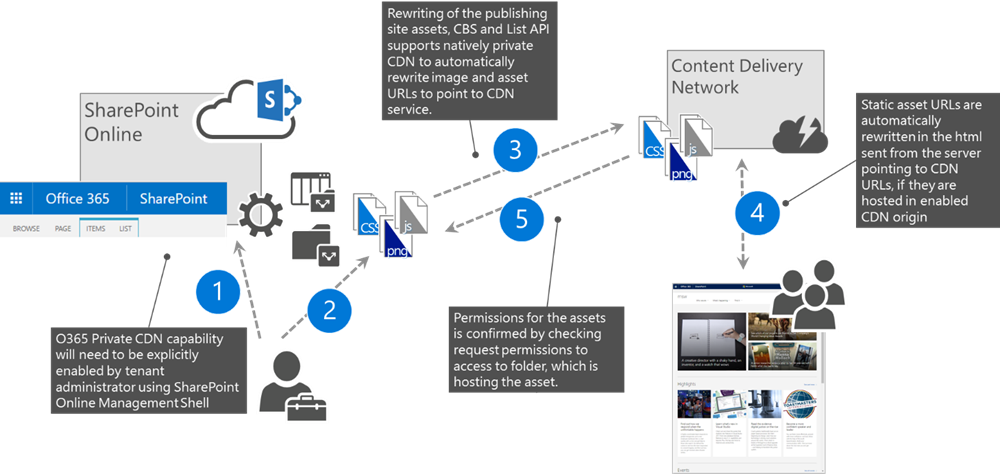
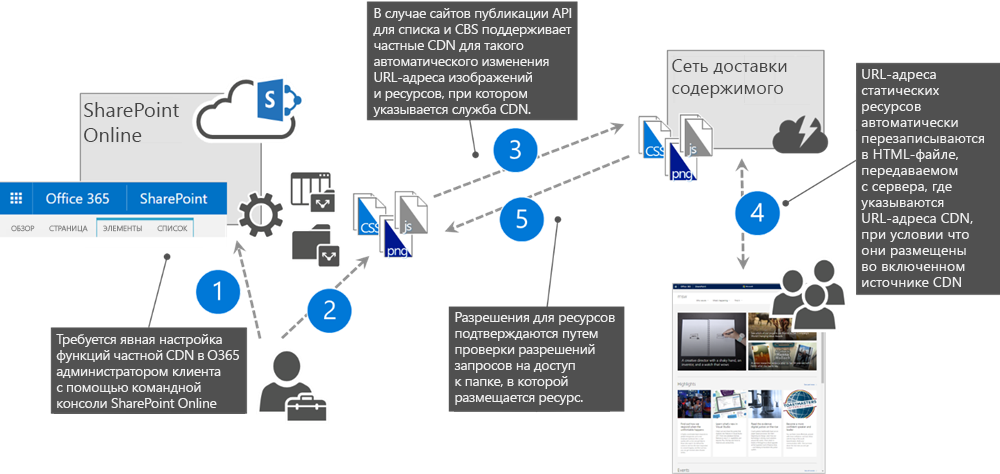
Commit translated content

diff --git a/docs/declarative-customization/site-design-overview.md b/docs/declarative-customization/site-design-overview.md
@@ -1,19 +1,19 @@
 ---
 title: "Общие сведения о макетах и скриптах сайтов SharePoint"
 description: "Узнайте, как автоматизировать подготовку новых сайтов SharePoint с пользовательскими конфигурациями, используя скрипты и макеты сайтов SharePoint."
-ms.date: 12/14/2017
-ms.openlocfilehash: 347be667a9b4bd7cfecdf8c8b962da7a1b98eefa
-ms.sourcegitcommit: db303a21b5f83c8c2f9c2028a271c9aae0ac0515
+ms.date: 01/08/2018
+ms.openlocfilehash: cbc11ec54bb48fab15269ac66e9a311ad4dd5bc1
+ms.sourcegitcommit: 6b547679670b719f2222f9709732382739956f90
 ms.translationtype: HT
 ms.contentlocale: ru-RU
-ms.lasthandoff: 01/07/2018
+ms.lasthandoff: 01/18/2018
 ---
 # <a name="sharepoint-site-design-and-site-script-overview"></a>Общие сведения о макетах и скриптах сайтов SharePoint
 
 > [!NOTE]
-> Макеты и скрипты сайтов в настоящий момент пересматриваются и могут быть изменены. Сейчас они не поддерживаются для использования в рабочих средах.
+> Макеты и скрипты сайтов находятся на стадии тестирования и могут меняться. В настоящее время в рабочих средах их можно использовать только в выпуске Targeted.
 
-Узнайте, как автоматизировать подготовку новых сайтов SharePoint с собственными конфигурациями, используя макеты и скрипты сайтов. Когда пользователи в организации создают сайты SharePoint, часто требуется обеспечить некоторый уровень согласованности. Например, к каждому новому сайту может потребоваться применять надлежащий фирменный стиль и темы. Вы также можете использовать подробные скрипты подготовки сайтов (например, модуль подготовки PnP), которые должны применяться при создании каждого сайта. В этой статье описывается использование макетов и скриптов сайтов для создания пользовательских конфигураций, применяемых при создании сайтов.
+Автоматизируйте подготовку новых сайтов SharePoint с собственными конфигурациями, используя макеты и скрипты. Когда пользователи в организации создают сайты SharePoint, часто требуется обеспечить некоторый уровень согласованности. Например, к каждому новому сайту может потребоваться применять надлежащий фирменный стиль и темы. Вы также можете использовать подробные скрипты подготовки сайтов (например, модуль подготовки PnP), которые должны применяться при создании каждого сайта. В этой статье описывается использование макетов и скриптов сайтов для создания пользовательских конфигураций, применяемых при создании сайтов.
 
 ## <a name="how-site-designs-work"></a>Как работают макеты сайтов
 
@@ -38,9 +38,9 @@ ms.lasthandoff: 01/07/2018
 
 ![Стандартные заголовок, описание и изображение макета в шаблоне сайта для общения](images/site-designs-listed-on-communication-site-template.png)
 
-Шаблон сайта группы содержит только один стандартный макет с именем **Сайт группы**. Дополнительные сведения о том, как можно изменить стандартные макеты сайта, см. в статье [Настройка стандартного макета сайта](customize-default-site-design.md).
+Шаблон сайта группы содержит только один стандартный макет с именем **Сайт группы**. Дополнительные сведения о том, как можно изменить стандартные макеты сайта, см. в [этой статье](customize-default-site-design.md).
 
-После выбора макета сайта SharePoint создает новый сайт и выполняет скрипты для его макета. В скриптах сайта описываются такие задачи, как создание списков или применение темы. После выполнения действий из скриптов SharePoint выводит подробные сведения о результатах этих действий в области выполнения.
+После выбора макета SharePoint создает новый сайт и выполняет скрипты для его макета. Скрипты сайта описывают задачи, такие как создание списков или применение темы. После выполнения действий из скриптов SharePoint выводит подробные сведения о результатах этих действий в области выполнения.
 
 ![Область выполнения со списком завершенных действий из макета сайта](images/progress-pane.png)
 
@@ -202,9 +202,9 @@ RestRequest("/_api/Microsoft.Sharepoint.Utilities.WebTemplateExtensions.SiteScri
 Параметр **WebTemplate** со значением 64 указывает, что макет сайта регистрируется с шаблоном сайта группы. Значение 68 указывает на шаблон сайта для общения. Параметры **Title** и **Description** отображаются, когда пользователь просматривает макеты сайтов во время создания сайта группы.
 
 > [!NOTE]
-> Макет сайта может выполнять множество скриптов. Их идентификаторы передаются в массиве, а скрипты выполняются в указанном порядке.
+> Макет сайта может выполнять множество скриптов. Их идентификаторы передаются в массиве. Скрипты выполняются в указанном порядке.
 
-Пошаговые инструкции по созданию макета сайта см. в статье [Начало создания макетов сайтов](get-started-create-site-design.md).
+Пошаговые инструкции по созданию макета сайта см. в [этой статье](get-started-create-site-design.md).
 
 ## <a name="pnp-provisioning-and-customization-using-microsoft-flow"></a>Подготовка PnP и настройка с помощью Microsoft Flow
 
@@ -221,13 +221,13 @@ RestRequest("/_api/Microsoft.Sharepoint.Utilities.WebTemplateExtensions.SiteScri
 1. Сообщение вызывает настроенную вами функцию Azure.
 1. Функция Azure выполняет пользовательский скрипт (например, модуль подготовки PnP), чтобы подготовить пользовательские конфигурации.
 
-Пошаговое руководстве по настройке потока Microsoft Flow с помощью модуля подготовки PnP см. в статье [Создание полноценного макета сайта с помощью модуля подготовки PnP](site-design-pnp-provisioning.md).
+Пошаговое руководстве по настройке потока Microsoft Flow с помощью модуля подготовки PnP см. в [этой статье](site-design-pnp-provisioning.md).
 
 ## <a name="scoping"></a>Определение области
 
-Вы можете настраивать макеты сайтов, чтобы они отображались только для определенных групп пользователей в организации. Это гарантирует, что пользователям видны только те макеты сайтов, которые для них предназначены. Например, отделу бухгалтерии будут доступны только соответствующие макеты. С другой стороны, макеты сайтов для бухгалтерии не понадобятся другим пользователям.
+Вы можете настраивать макеты сайтов, чтобы они отображались только для определенных групп пользователей в организации. Другие пользователи не будут видеть эти макеты. Например, можно сделать так, чтобы макеты для бухгалтерии видели только бухгалтеры и больше никто.
 
-После создания макета сайта он по умолчанию виден всем пользователям. Области применяются с помощью командлета **Grant-SPOSiteDesignRights** или REST API **GrantSiteDesignRights**.  В качестве области можно указывать пользователей или группы безопасности, поддерживающие почту. В приведенном ниже примере показано, как добавить к макету сайта права просмотра для пользователя Nestor (на вымышленном сайте Contoso).
+После создания макета сайта он по умолчанию виден всем пользователям. Области применяются с помощью командлета **Grant-SPOSiteDesignRights** или REST API **GrantSiteDesignRights**.  В качестве области можно указывать пользователей или группы безопасности, поддерживающие почту. В приведенном ниже примере показано, как предоставить пользователю Nestor (на вымышленном сайте Contoso) права на просмотр макета.
 
 > [!div class="tabbedCodeSnippets"]
 ```powershell
@@ -242,7 +242,7 @@ Grant-SPOSiteDesignRights `
 RestRequest("/_api/Microsoft.Sharepoint.Utilities.WebTemplateExtensions.SiteScriptUtility.GrantSiteDesignRights", {id:"44252d09-62c4-4913-9eb0-a2a8b8d7f863", principalNames:["nestorw@contoso.onmicrosoft.com”], grantedRights:1});
 ```
 -->
-Дополнительные сведения о работе с областями см. в статье [Определение области доступа к макетами сайтов](site-design-scoping.md).
+Дополнительные сведения о работе с областями см. в [этой статье](site-design-scoping.md).
 
 ## <a name="see-also"></a>См. также
 

diff --git a/docs/declarative-customization/site-design-rest-api.md b/docs/declarative-customization/site-design-rest-api.md
@@ -2,25 +2,25 @@
 title: "REST API для работы с макетами сайтов SharePoint"
 description: "Узнайте, как работать с макетами сайтов SharePoint при помощи интерфейса REST для SharePoint, выполняя базовые операции создания, чтения, обновления и удаления (CRUD)."
 ms.date: 12/14/2017
-ms.openlocfilehash: 618f8b0bb7eed7a3bf60bdd86363e095fb0a8221
-ms.sourcegitcommit: 6f2b3b5bd81c2de4f761e10ed5e2f0b9c3c485bf
+ms.openlocfilehash: 978a5c2b58e418ae9f7d99783a95352cdd3977a5
+ms.sourcegitcommit: 9f492519d4eeb3f62a1fddc71cdca79263651a56
 ms.translationtype: HT
 ms.contentlocale: ru-RU
-ms.lasthandoff: 12/21/2017
+ms.lasthandoff: 01/19/2018
 ---
 # <a name="site-design-and-site-script-rest-api"></a>REST API для работы с макетами и скриптами сайтов
 
 > [!NOTE]
-> Макеты и скрипты сайтов в настоящий момент пересматриваются и могут быть изменены. Сейчас они не поддерживаются для использования в рабочих средах.
+> Макеты и скрипты сайтов находятся на стадии тестирования и могут меняться. В настоящее время в рабочих средах их можно использовать только в выпуске Targeted.
 
 При помощи интерфейса REST для SharePoint можно выполнять операции CRUD (создание, чтение, обновление и удаление) с макетами и скриптами сайтов.
 
-Служба REST в SharePoint Online (а также локальной среде SharePoint 2016 или более поздней версии) поддерживает объединение нескольких запросов в один вызов службы с помощью параметра запроса OData $batch. Подробные сведения и ссылки на примеры кода см. в статье [Отправка пакетных запросов с помощью интерфейсов REST API]((https://dev.office.com/sharepoint/docs/apis/rest/make-batch-requests-with-the-rest-apis.md)).
+Служба REST в SharePoint Online (а также локальной среде SharePoint 2016 или более поздней версии) поддерживает объединение нескольких запросов в один вызов службы с помощью параметра запроса OData $batch. Подробные сведения и ссылки на примеры кода см. в статье [Отправка пакетных запросов с помощью интерфейсов REST API](https://dev.office.com/sharepoint/docs/apis/rest/make-batch-requests-with-the-rest-apis.md).
 
 ## <a name="prerequisites"></a>Необходимые условия
 Прежде чем приступить к работе, убедитесь, что вы знакомы с понятиями, описанными в следующих статьях:
-- [Знакомство со службой REST в SharePoint]((https://dev.office.com/sharepoint/docs/apis/rest/get-to-know-the-sharepoint-rest-service.md)); 
-- [Выполнение базовых операций с использованием конечных точек REST SharePoint]((https://dev.office.com/sharepoint/docs/apis/rest/complete-basic-operations-using-sharepoint-rest-endpoints.md))
+- [Знакомство со службой REST в SharePoint](https://dev.office.com/sharepoint/docs/apis/rest/get-to-know-the-sharepoint-rest-service.md); 
+- [Выполнение базовых операций с использованием конечных точек REST SharePoint](https://dev.office.com/sharepoint/docs/apis/rest/complete-basic-operations-using-sharepoint-rest-endpoints.md)
 
 ## <a name="rest-commands"></a>Команды REST
 

diff --git a/docs/declarative-customization/site-design-json-schema.md b/docs/declarative-customization/site-design-json-schema.md
@@ -2,18 +2,18 @@
 title: "Схема JSON для макетов сайтов"
 description: "Справочник по схеме JSON для создания макетов сайтов SharePoint."
 ms.date: 12/14/2017
-ms.openlocfilehash: 8fcc88c854b948c785db6181fa66e307128b343d
-ms.sourcegitcommit: 7b6ce94b477d9b587beaa059eb9aa7cd6235efde
+ms.openlocfilehash: e5495608c10bac18ee98f858736d117a02c5f2a5
+ms.sourcegitcommit: 6b547679670b719f2222f9709732382739956f90
 ms.translationtype: HT
 ms.contentlocale: ru-RU
-ms.lasthandoff: 01/05/2018
+ms.lasthandoff: 01/18/2018
 ---
 # <a name="site-design-json-schema"></a>Схема JSON для макетов сайтов
 
 > [!NOTE]
-> Макеты и скрипты сайтов в настоящий момент пересматриваются и могут быть изменены. Сейчас они не поддерживаются для использования в рабочих средах.
+> Макеты и скрипты сайтов находятся на стадии тестирования и могут меняться. В настоящее время в рабочих средах их можно использовать только в выпуске Targeted.
 
-Макет сайта представляет собой список действий. Сложные действия, например создание списка, также содержат вложенные действия. Каждое действие указывается с помощью значения verb (команды). Действия-команды выполняются в том порядке, в котором они указаны в скрипте JSON.
+Макет сайта представляет собой список действий. Сложные действия, например создание списка, также содержат вложенные действия. Каждое действие указывается с помощью значения verb (команды). Действия-команды выполняются в том порядке, в котором они указаны в скрипте JSON. Используйте только указанные здесь действия-команды, иначе при попытке загрузить скрипт сайта возникнет ошибка "не удается обработать действие". Со временем список действий будет расширяться. 
 
 Общая структура JSON выглядит так:
 
@@ -37,7 +37,7 @@ ms.lasthandoff: 01/05/2018
 Значения JSON:
 
 - **listName** — имя списка, которое видят пользователи.
-- **templateType** — тип шаблона, применяемый к списку. Как правило, используется значение 100. Значения типов шаблонов указываются в [перечислении SPListTemplateType]((https://msdn.microsoft.com/ru-RU/library/microsoft.sharepoint.splisttemplatetype.aspx)).
+- **templateType** — тип шаблона, применяемый к списку. Как правило, используется значение 100. Значения типов шаблонов указываются в [перечислении SPListTemplateType](https://msdn.microsoft.com/ru-RU/library/microsoft.sharepoint.splisttemplatetype.aspx).
 - **subactions** — массив действий, выполняемых в указанном порядке для создания списка.
 
 Пример:

diff --git a/docs/declarative-customization/site-design-pnp-provisioning.md b/docs/declarative-customization/site-design-pnp-provisioning.md
@@ -1,21 +1,21 @@
 ---
 title: "Создание полноценного макета сайта SharePoint с помощью модуля подготовки PnP"
 description: "Создание полноценного макета сайта SharePoint с помощью модуля подготовки PnP"
-ms.date: 12/14/2017
-ms.openlocfilehash: 028a028822c234dcbbbad290c642ec03dd4b6392
-ms.sourcegitcommit: d9372f6009de1c1e48e272fd3629a99aed7fef9f
+ms.date: 01/08/2018
+ms.openlocfilehash: 102eec9fa09afa28bbdc5b40f73a9e254dd52bce
+ms.sourcegitcommit: 6b547679670b719f2222f9709732382739956f90
 ms.translationtype: HT
 ms.contentlocale: ru-RU
-ms.lasthandoff: 01/09/2018
+ms.lasthandoff: 01/18/2018
 ---
 # <a name="calling-the-pnp-provisioning-engine-from-a-site-script"></a>Вызов модуля подготовки PnP из скрипта на сайте
 
 > [!NOTE]
 > Макеты и скрипты сайтов находятся на стадии тестирования и могут меняться. В настоящее время их нельзя использовать в рабочих средах.
 
-Макеты сайтов — удобный способ стандартизации внешнего вида семейств веб-сайтов. Однако они не поддерживают некоторые задачи, например, не позволяют добавить нижний колонтитул на каждую страницу. С помощью модуля подготовки PnP вы можете создать шаблон, позволяющий подготовить настройщик для сайта. Этот настройщик затем может обновить макет страницы, например, чтобы зарегистрировать нижний колонтитул на каждой странице. 
+Макеты сайтов — удобный способ стандартизации внешнего вида семейств веб-сайтов. Однако они не поддерживают некоторые задачи, например, не позволяют добавить нижний колонтитул на каждую страницу. Вы можете подготовить настройщик заполнителей сайта на основе шаблона, созданного с помощью модуля подготовки PnP. Этот настройщик затем может обновить макет страницы, например, чтобы зарегистрировать нижний колонтитул на каждой странице. 
 
-В этой статье описано, как создать макет сайта, который применяет шаблон подготовки PnP к сайту. Шаблон добавит настройщик для отображения нижнего колонтитула.
+В этой статье описано, как создать макет сайта, который применяет шаблон подготовки PnP к сайту. Шаблон добавит настройщик заполнителей для отображения нижнего колонтитула.
 
 В этой статье используются следующие компоненты:
 

diff --git a/docs/declarative-customization/customize-default-site-design.md b/docs/declarative-customization/customize-default-site-design.md
@@ -2,18 +2,18 @@
 title: "Настройка стандартных дизайнов сайтов в SharePoint"
 description: "Настройка стандартных дизайнов сайтов в шаблоне сайта группы или сайта для общения в SharePoint"
 ms.date: 12/18/2017
-ms.openlocfilehash: 8b5506877f5e7938c16ce2d2dacb928ae57e24f9
-ms.sourcegitcommit: 31f793b42ec75679f01e1a024d0375a2bc7b5ec7
+ms.openlocfilehash: 34107e7028400cec62b0f6454f3474b92ca288be
+ms.sourcegitcommit: 9f492519d4eeb3f62a1fddc71cdca79263651a56
 ms.translationtype: HT
 ms.contentlocale: ru-RU
-ms.lasthandoff: 12/19/2017
+ms.lasthandoff: 01/19/2018
 ---
-# <a name="customize-a-default-site-design"></a>Настройка стандартного дизайна сайта
+# <a name="customize-a-default-site-design"></a>Настройка дизайна сайта по умолчанию
 
 > [!NOTE]
-> Дизайны и скрипты сайтов в настоящий момент пересматриваются и могут быть изменены. Сейчас они не поддерживаются для использования в рабочих средах.
+> Макеты и скрипты сайтов находятся на стадии тестирования и могут меняться. В настоящее время в рабочих средах их можно использовать только в выпуске Targeted.
 
-В SharePoint есть несколько дизайнов сайтов, доступных в шаблонах сайтов SharePoint Online. Это стандартные дизайны сайтов. Вы можете изменить их с помощью PowerShell или REST API для контролирования всего процесса подготовки сайта. Например, вы можете сделать так, чтобы тема организации применялась к каждому создаваемому сайту. Вы также можете обеспечить обязательное ведение журнала независимо от того, какой дизайн сайта выбран.
+SharePoint содержит несколько макетов, уже доступных в шаблонах сайтов SharePoint Online. Это стандартные дизайны сайтов. Вы можете изменить их с помощью PowerShell или REST API для контролирования всего процесса подготовки сайта. Например, вы можете сделать так, чтобы тема организации применялась к каждому создаваемому сайту. Вы также можете обеспечить обязательное ведение журнала независимо от того, какой дизайн сайта выбран.
 
 ## <a name="apply-a-site-design-to-the-default-site-designs"></a>Применение к стандартным дизайнам сайтов другого дизайна сайта
 

diff --git a/docs/declarative-customization/get-started-create-site-design.md b/docs/declarative-customization/get-started-create-site-design.md
@@ -1,17 +1,17 @@
 ---
 title: "Приступая к созданию макетов и скриптов сайтов SharePoint"
 description: "Узнайте, как приступить к созданию макетов и скриптов сайтов SharePoint, с помощью которых пользователи смогут создавать собственные сайты."
-ms.date: 12/14/2017
-ms.openlocfilehash: 4b4e0c6c1a374599448aa5eb87ace311398c3593
-ms.sourcegitcommit: d9372f6009de1c1e48e272fd3629a99aed7fef9f
+ms.date: 01/08/2018
+ms.openlocfilehash: 5781898dc7c2b7a8905003f8584a62470ef1fb9c
+ms.sourcegitcommit: 9f492519d4eeb3f62a1fddc71cdca79263651a56
 ms.translationtype: HT
 ms.contentlocale: ru-RU
-ms.lasthandoff: 01/09/2018
+ms.lasthandoff: 01/19/2018
 ---
 # <a name="get-started-creating-site-designs-and-site-scripts"></a>Приступая к созданию макетов и скриптов сайтов
 
 > [!NOTE]
-> Макеты и скрипты сайтов в настоящий момент пересматриваются и могут быть изменены. Сейчас они не поддерживаются для использования в рабочих средах.
+> Макеты и скрипты сайтов находятся на стадии тестирования и могут меняться. В настоящее время в рабочих средах их можно использовать только в выпуске Targeted.
 
 Создавая макеты сайтов, вы можете предоставлять пользователям пригодные для повторного использования списки, темы, макеты, страницы или дополнительные действия, чтобы они могли быстро создавать сайты SharePoint с нужными им функциями. В этой статье описывается создание примера макета сайта, добавляющего список SharePoint для отслеживания заказов от клиентов. Мы создадим при помощи этого макета новый сайт SharePoint с настраиваемым списком.
 

diff --git a/docs/declarative-customization/site-design-scoping.md b/docs/declarative-customization/site-design-scoping.md
@@ -1,17 +1,17 @@
 ---
 title: "Определение областей доступа к макетам сайтов SharePoint"
 description: "Узнайте, как задавать области для макетов сайтов SharePoint, чтобы управлять тем, кто может просматривать и использовать их."
-ms.date: 12/14/2017
-ms.openlocfilehash: c0896cab28a4c9cba3f74fbad8120061311004a2
-ms.sourcegitcommit: d9372f6009de1c1e48e272fd3629a99aed7fef9f
+ms.date: 01/08/2018
+ms.openlocfilehash: c4f69a020b5bda02aee56ade6b55a025e40b0088
+ms.sourcegitcommit: 9f492519d4eeb3f62a1fddc71cdca79263651a56
 ms.translationtype: HT
 ms.contentlocale: ru-RU
-ms.lasthandoff: 01/09/2018
+ms.lasthandoff: 01/19/2018
 ---
 # <a name="scoping-access-to-site-designs"></a>Определение областей доступа к макетам сайтов
 
 > [!NOTE]
-> Макеты и скрипты сайтов в настоящий момент пересматриваются и могут быть изменены. Сейчас они не поддерживаются для использования в рабочих средах.
+> Макеты и скрипты сайтов находятся на стадии тестирования и могут меняться. В настоящее время в рабочих средах их можно использовать только в выпуске Targeted.
 
 По умолчанию макеты сайтов доступны всем. Вы можете определять область их действия, чтобы они были доступны только определенным пользователям или группам. Например, в отделе бухгалтерии могут использоваться специальные макеты, которые нет смысла делать общедоступными. В этой статье описывается, как управлять тем, каким пользователям и группам видны те или иные макеты сайтов.
 

diff --git a/docs/declarative-customization/site-design-powershell.md b/docs/declarative-customization/site-design-powershell.md
@@ -1,17 +1,17 @@
 ---
 title: "Командлеты PowerShell для макетов и скриптов сайтов SharePoint"
 description: "Узнайте, как создавать, получать и удалять макеты и скрипты сайтов с помощью командлетов PowerShell."
-ms.date: 12/14/2017
-ms.openlocfilehash: 81048173e6fa8933a9cfdcb668f0c8ba362d2e86
-ms.sourcegitcommit: d9372f6009de1c1e48e272fd3629a99aed7fef9f
+ms.date: 01/08/2018
+ms.openlocfilehash: 2c6ca90ee37c978a715e708e16e027dff52f82c1
+ms.sourcegitcommit: 9f492519d4eeb3f62a1fddc71cdca79263651a56
 ms.translationtype: HT
 ms.contentlocale: ru-RU
-ms.lasthandoff: 01/09/2018
+ms.lasthandoff: 01/19/2018
 ---
 # <a name="powershell-cmdlets-for-sharepoint-site-designs-and-site-scripts"></a>Командлеты PowerShell для макетов и скриптов сайтов SharePoint
 
 > [!NOTE]
-> Макеты и скрипты сайтов в настоящий момент пересматриваются и могут быть изменены. Сейчас они не поддерживаются для использования в рабочих средах.
+> Макеты и скрипты сайтов находятся на стадии тестирования и могут меняться. В настоящее время в рабочих средах их можно использовать только в выпуске Targeted.
 
 Узнайте, как создавать, получать и удалять макеты и скрипты сайтов с помощью командлетов PowerShell.
 
@@ -37,7 +37,6 @@ ms.lasthandoff: 01/09/2018
 - **Remove-SPOSiteDesign**
 - **Remove-SPOSiteScript**
 - **Revoke-SPOSiteDesignRights**
-
 <!--
 - **Set-SPOSiteDesign**
 - **Set-SPOSiteScript**
@@ -309,8 +308,9 @@ PS C:\> Revoke-SPOSiteDesignRights 44252d09-62c4-4913-9eb0-a2a8b8d7f863 `
 
 <!--
 ## Set-SPOSiteDesign (TBD)
-
+Updates a previously uploaded site design.
 ## Set-SPOSiteScript (TBD)
+Updates a previously uploaded site script.
 -->
 
 ## <a name="see-also"></a>См. также

diff --git a/docs/design/accessibility.md b/docs/design/accessibility.md
@@ -1,11 +1,11 @@
 ---
 title: "Специальные возможности при разработке веб-части SharePoint"
 ms.date: 11/21/2017
-ms.openlocfilehash: b1c2e0819d15e470d1502deee79f8d6ab9254213
-ms.sourcegitcommit: 068729a51c9e2c1a83e7e33d28149ab79bfbd06e
+ms.openlocfilehash: f308f8d1cbe1fabc274e8c83af9cf1b6e8d43177
+ms.sourcegitcommit: 6b547679670b719f2222f9709732382739956f90
 ms.translationtype: HT
 ms.contentlocale: ru-RU
-ms.lasthandoff: 11/29/2017
+ms.lasthandoff: 01/18/2018
 ---
 <!--Based on how rough this content is in it's current state, i'm going to pull it from this initial release so we can edit and better prepare. -->
 
@@ -88,7 +88,7 @@ The third tab is the navigation.
 
 ### <a name="run-a-control"></a>Запуск элемента управления
 
-Нажмите клавишу **ВВОД**, чтобы запустить элемент управления.
+Нажмите клавишу ВВОД, чтобы запустить элемент управления.
 
 *Рис. 4. Нажатие клавиши ВВОД для запуска элемента управления*
 
